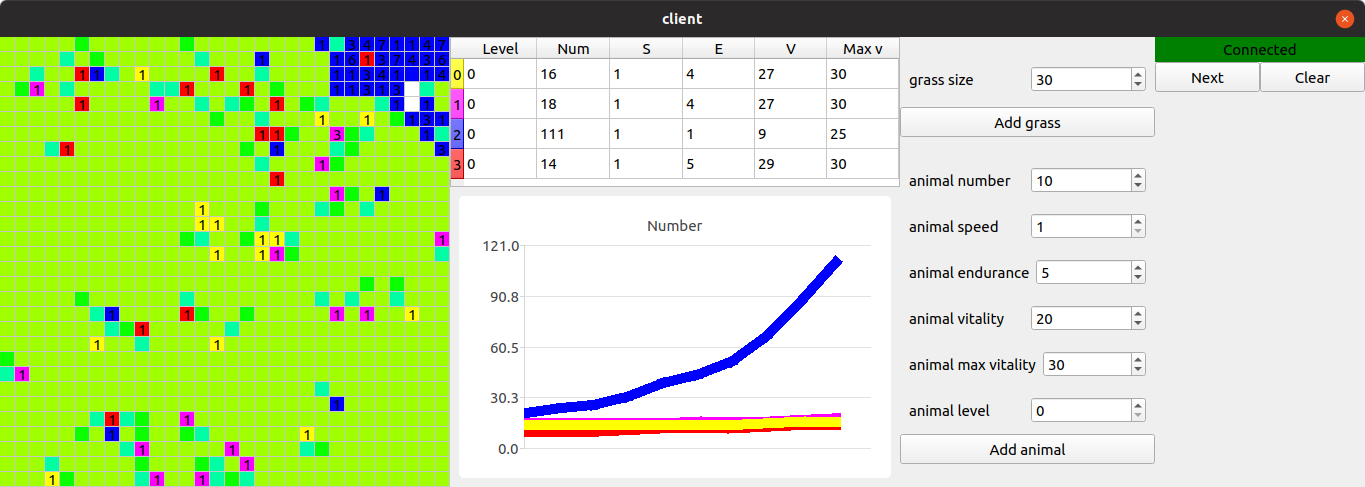
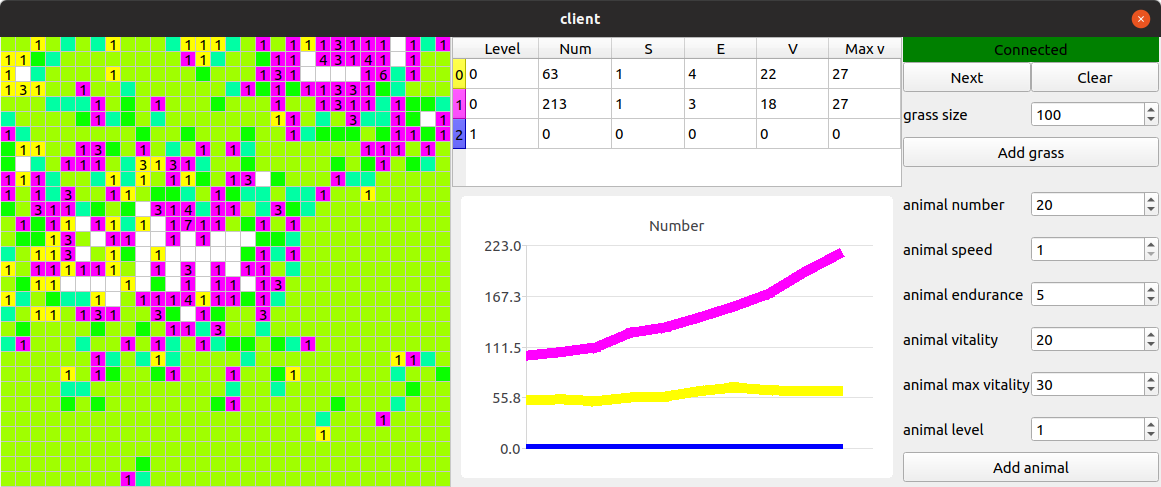
small fix

diff --git a/client/panel_component.cpp b/client/panel_component.cpp
@@ -9,10 +9,12 @@ panel_component_leaf::panel_component_leaf(QString name, qint32 min_val, qint32 
     QLabel* lab = new QLabel(name);
     main_lay->addWidget(lab);
     main_lay->addWidget(val_);
+    main_lay->setContentsMargins(0,0,0,0);
+    main_lay->setSpacing(0);
     this->setLayout(main_lay);
     val_->setMinimum(min_val);
     val_->setMaximum(max_val);
-    this->setFixedSize(255, 45);
+    this->setFixedSize(256, 45);
 }
 
 QPair<QString, qint32> panel_component_leaf::get_data()
@@ -27,11 +29,12 @@ panel_component::panel_component(QVector<panel_component_leaf*> comps, QString b
     QVBoxLayout* main_lay = new QVBoxLayout;
     for (auto& i : comps_) main_lay->addWidget(i);
     QPushButton* but = new QPushButton(but_name);
-    but->setFixedSize(255,30);
+    but->setFixedSize(256,30);
     main_lay->addWidget(but);
     main_lay->setContentsMargins(0,0,0,0);
     main_lay->setSpacing(0);
-    this->setFixedSize(255, 45*(comps_.size() + 1));
+    main_lay->setAlignment(Qt::AlignTop);
+    this->setFixedSize(256, 45*(comps_.size()+1));
     this->setLayout(main_lay);
     connect(but, &QPushButton::clicked, this, &panel_component::get_data);
 }

diff --git a/client/client_component.cpp b/client/client_component.cpp
@@ -8,11 +8,11 @@ client_component::client_component(QHostAddress ip, qint32 port, QWidget *parent
     , _ip(ip)
     , _port(port)
 {
-    this->setFixedSize(15*14, 25);
+    this->setFixedSize(256, 25);
     this->setStyleSheet("background-color: red;");
     QHBoxLayout* lay = new QHBoxLayout;
-    _lab->setFixedSize(15*7,25);
-    _but->setFixedSize(15*7,25);
+    _lab->setFixedSize(128,25);
+    _but->setFixedSize(128,25);
     lay->addWidget(_lab);
     lay->addWidget(_but);
     lay->setContentsMargins(0,0,0,0);
@@ -44,7 +44,7 @@ void client_component::start()
 
 void client_component::connected()
 {
-    _lab->setFixedSize(15*14,25);
+    _lab->setFixedSize(256,25);
     _but->hide();
     _lab->setText("Connected");
     this->setStyleSheet("background-color: green;");
@@ -55,7 +55,7 @@ void client_component::disconnected()
     _soc->close();
     _but->show();
     _lab->setText("Disconnected");
-    _lab->setFixedSize(15*7,25);
+    _lab->setFixedSize(256,25);
     this->setStyleSheet("background-color: red;");
 }
 

diff --git a/client/buts_component.cpp b/client/buts_component.cpp
@@ -4,8 +4,8 @@ start_component::start_component(QString name, QWidget *parent)
     : BaseComponent(parent)
 {
     QPushButton* but = new QPushButton(name, this);
-    but->setFixedSize(15*7, 30);
-    this->setFixedSize(15*7, 30);
+    but->setFixedSize(128, 30);
+    this->setFixedSize(128, 30);
     connect(but, &QPushButton::clicked, this, &start_component::ping);
 }
 
@@ -19,8 +19,8 @@ restart_component::restart_component(QString name, QWidget *parent)
     : BaseComponent(parent)
 {
     QPushButton* but = new QPushButton(name, this);
-    but->setFixedSize(15*7, 30);
-    this->setFixedSize(15*7, 30);
+    but->setFixedSize(128, 30);
+    this->setFixedSize(128, 30);
     connect(but, &QPushButton::clicked, this, &restart_component::ping);
 }
 

diff --git a/client/mainwindow.cpp b/client/mainwindow.cpp
@@ -45,6 +45,7 @@ MainWindow::MainWindow(QWidget *parent)
     QGridLayout* buts_lay = new QGridLayout;
     main_lay->addWidget(screen_);
 
+    editor_lay->addLayout(buts_lay);
     editor_lay->addWidget(panel1_);
     editor_lay->addWidget(panel2_);
     editor_lay->setContentsMargins(0,0,0,0);
@@ -64,13 +65,12 @@ MainWindow::MainWindow(QWidget *parent)
 
     main_lay->addLayout(panel_lay);
     main_lay->addLayout(editor_lay);
-    main_lay->addLayout(buts_lay);
     main->setLayout(main_lay);
     main_lay->setContentsMargins(0,0,0,0);
     main_lay->setSpacing(0);
 
     this->setCentralWidget(main);
-    this->setFixedWidth(1365);
+    this->setFixedWidth(1161);
     this->setFixedHeight(15*30);
 }
 
